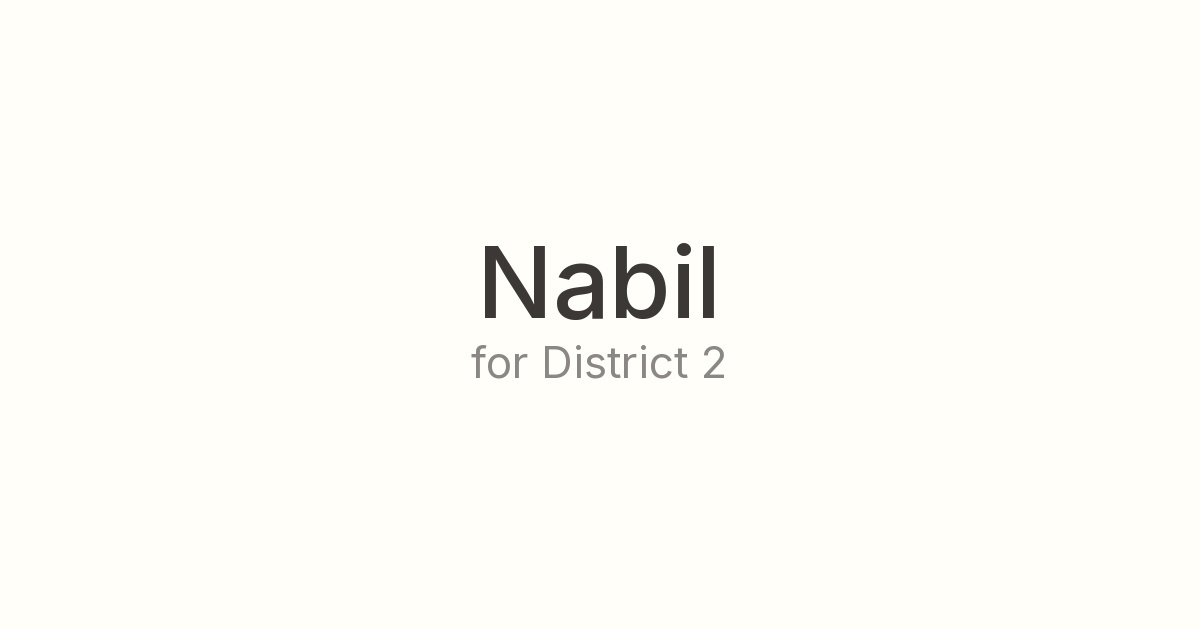
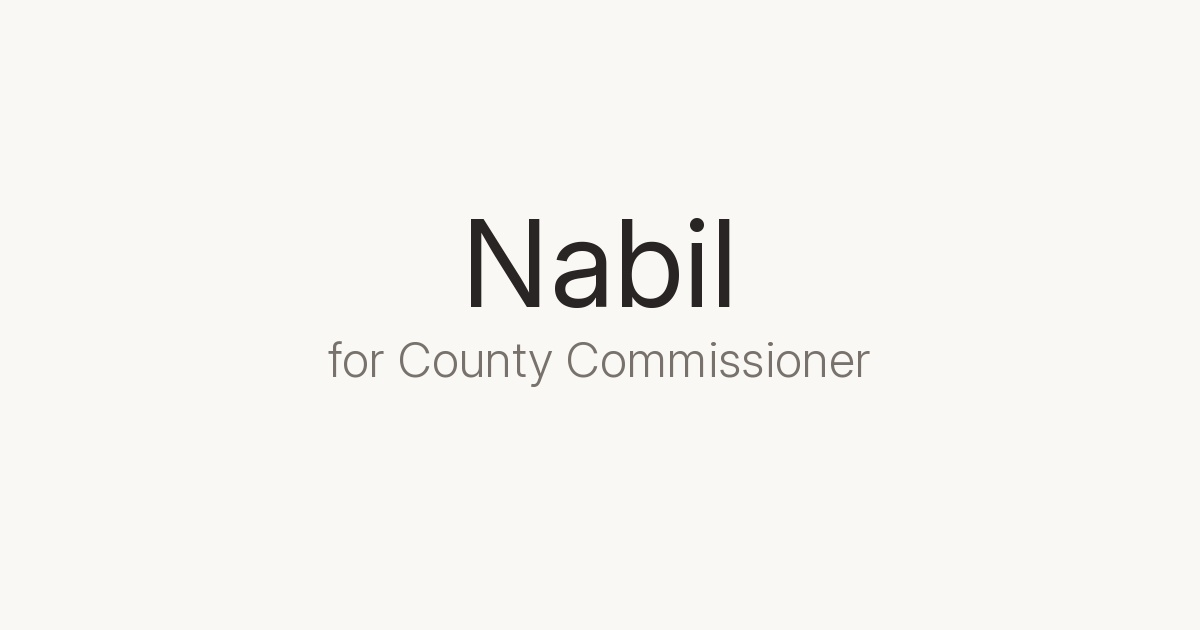
added showcase scroll on view logic; and updated og image

Changed region(s): [[0.37, 0.3317, 0.6167, 0.5127], [0.2775, 0.5429, 0.74, 0.6032]]

diff --git a/app/components/sections/EndorsementShowcase.tsx b/app/components/sections/EndorsementShowcase.tsx
@@ -1,6 +1,7 @@
 'use client';
 
-import { useReducedMotion } from 'framer-motion';
+import { useRef } from 'react';
+import { useReducedMotion, useInView } from 'framer-motion';
 import { motion, AnimatePresence } from 'framer-motion';
 
 import EndorsementCard, { type Endorser } from '@/app/components/sections/EndorsementCard';
@@ -78,6 +79,8 @@ interface EndorsementShowcaseProps {
 }
 
 export default function EndorsementShowcase({ endorsers }: EndorsementShowcaseProps) {
+  const sectionRef = useRef(null);
+  const isInView = useInView(sectionRef, { once: false, amount: 0.3 });
   const prefersReducedMotion = useReducedMotion();
 
   const {
@@ -91,13 +94,13 @@ export default function EndorsementShowcase({ endorsers }: EndorsementShowcasePr
   } = useAutoAdvance({
     itemCount: endorsers.length,
     duration: ADVANCE_DURATION,
-    enabled: !prefersReducedMotion,
+    enabled: !prefersReducedMotion && isInView,
   });
 
   const currentEndorser = endorsers[activeIndex];
 
   return (
-    <section id="endorsements" className="bg-surface-warm py-12 md:py-16" aria-label="Endorsements">
+    <section ref={sectionRef} id="endorsements" className="bg-surface-warm py-12 md:py-16" aria-label="Endorsements">
       <div className="mx-auto max-w-[var(--content-max)]">
         <div className="relative overflow-hidden min-h-[750px] md:min-h-[950px] lg:min-h-0 lg:h-[600px]">
           <AnimatePresence mode="popLayout">